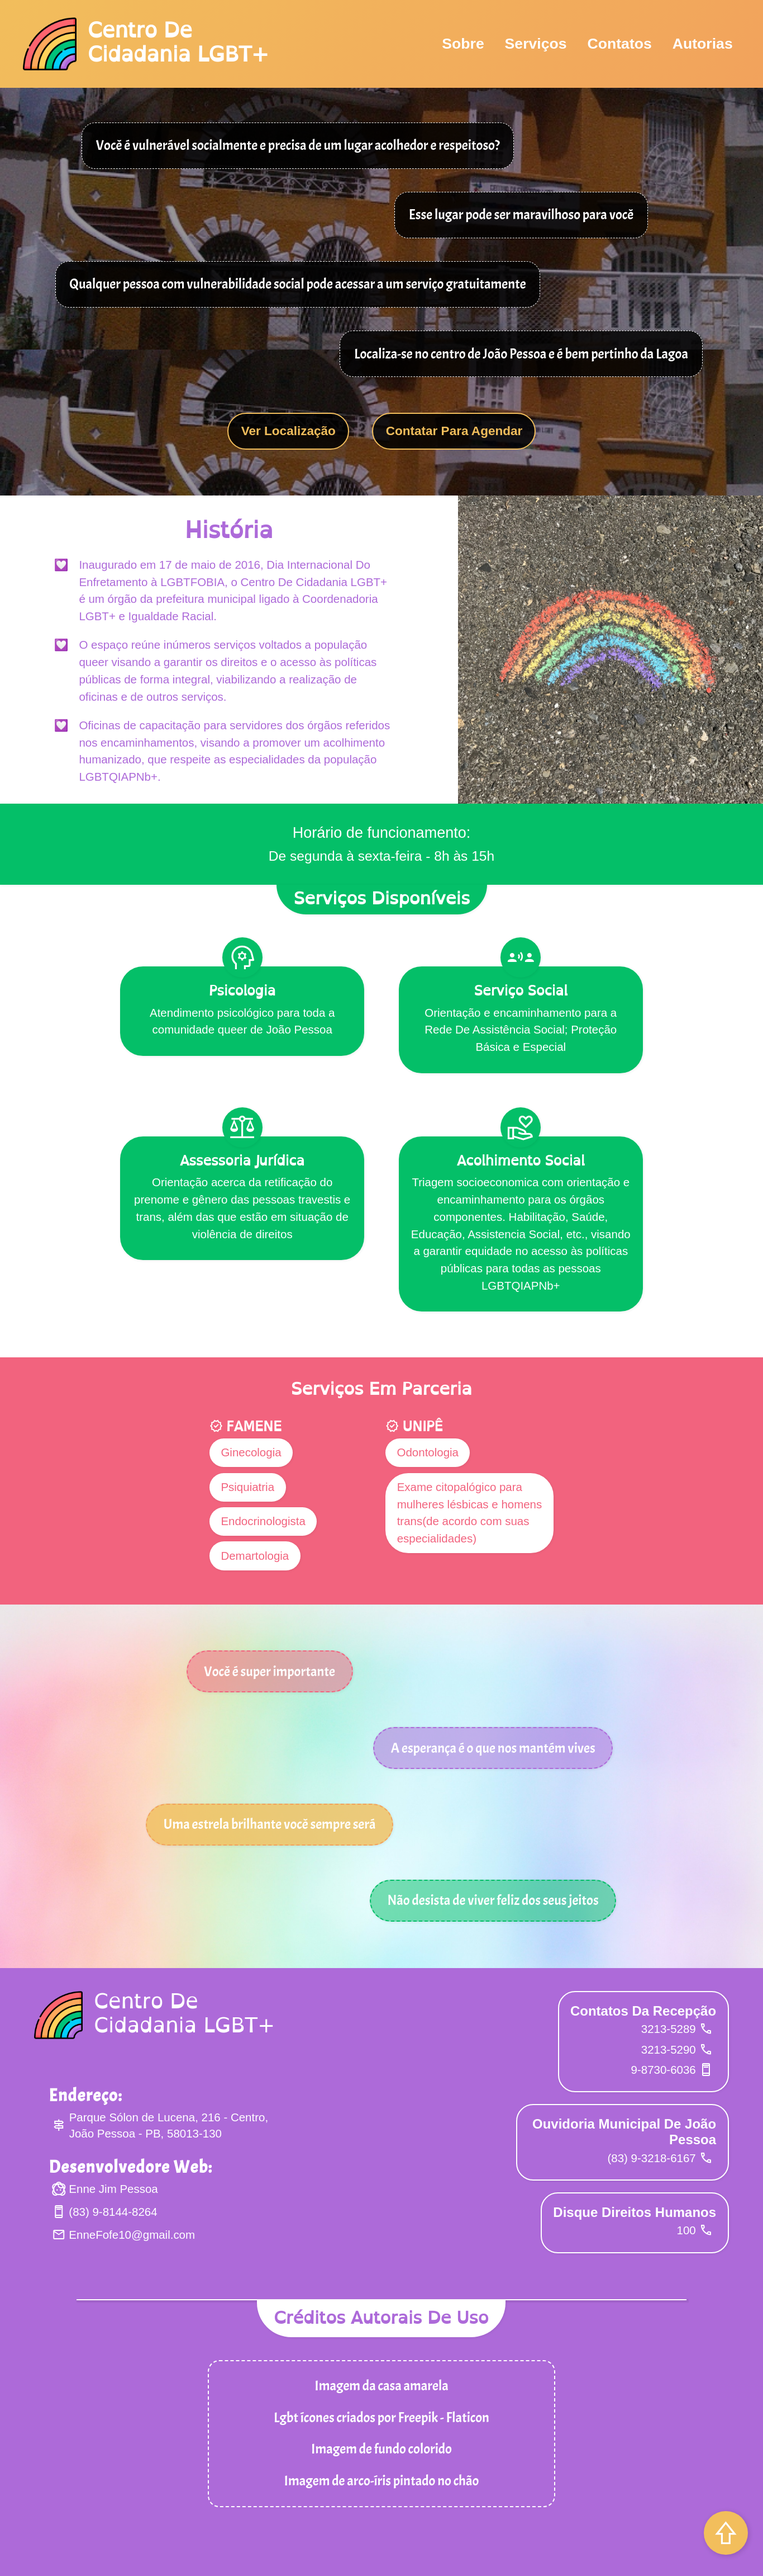
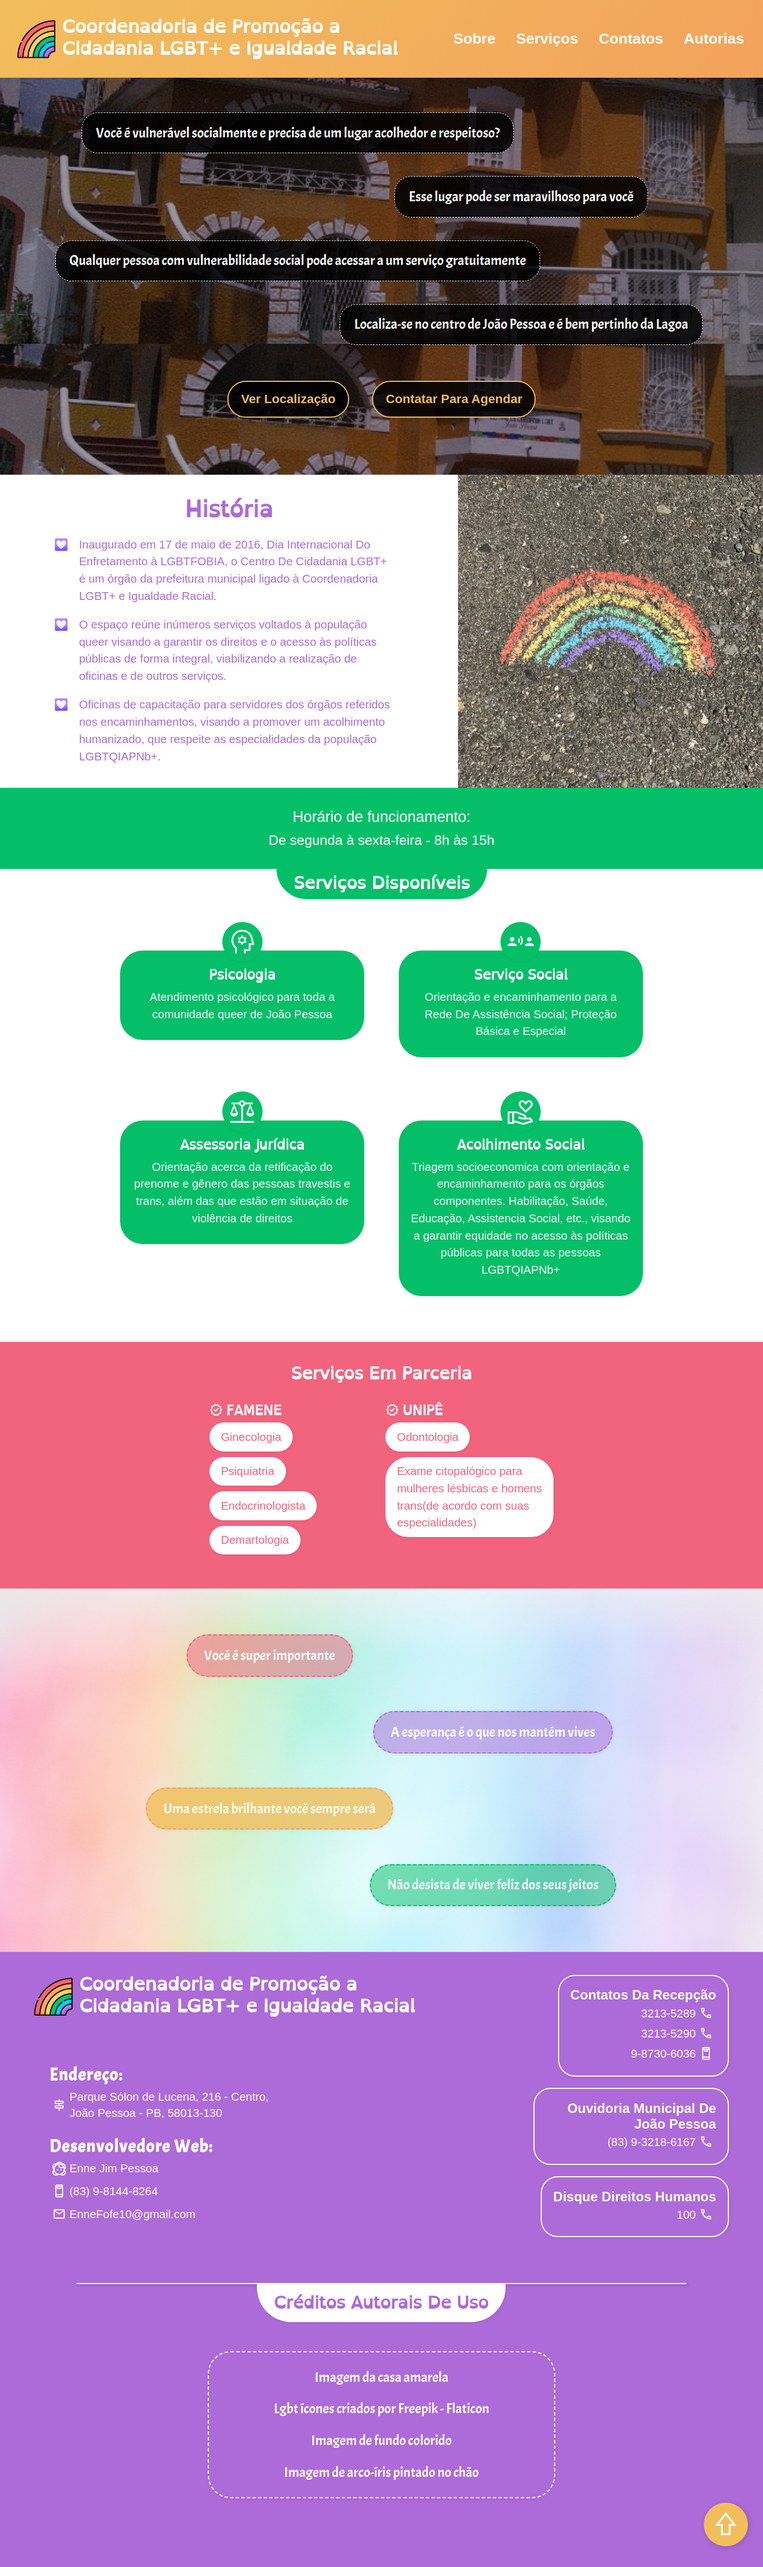
Atualização - Meus Websites
Atualizando as fotos do site de cidadania queer

diff --git a/src/view/meus-websites.html b/src/view/meus-websites.html
@@ -256,7 +256,7 @@
                       data-site="https://enne-amore.github.io/cidadania-queer/" 
                       data-repository="https://github.com/Enne-Amore/cidadania-queer/"
                     >
-                        <abbr title="Cordel Moderno">
+                        <abbr title="Coodernadoria de Promoção a Cidadania LGBT+ e Igualdade Racial">
                             <img src="meus-websites/img/cidadania-queer-icon.png" alt="Logo do site Centro De Cidadania LGBT+">
                         </abbr>
                     </button>

diff --git a/src/view/meus-websites/frames/cidadania-queer-desktop.html b/src/view/meus-websites/frames/cidadania-queer-desktop.html
@@ -7,6 +7,6 @@
     <link rel="stylesheet" href="../../../css/tela.css">
 </head>
 <body>
-    <img src="../img/cidadania-queer-desktop.png" alt="Tela para computador do site: Centro De Cidadania LGBT+" id="tela">
+    <img src="../img/cidadania-queer-desktop.png" alt="Tela para computador do site: Coodernadoria de Promoção a Cidadania LGBT+ e Igualdade Racial" id="tela">
 </body>
 </html>

diff --git a/src/view/meus-websites/frames/cidadania-queer-mobile.html b/src/view/meus-websites/frames/cidadania-queer-mobile.html
@@ -7,6 +7,6 @@
     <link rel="stylesheet" href="../../../css/tela.css">
 </head>
 <body>
-    <img src="../img/cidadania-queer-mobile.png" alt="Tela para celular do site: Centro De Cidadania LGBT+" id="tela">
+    <img src="../img/cidadania-queer-mobile.png" alt="Tela para celular do site: Coodernadoria de Promoção a Cidadania LGBT+ e Igualdade Racial" id="tela">
 </body>
 </html>
